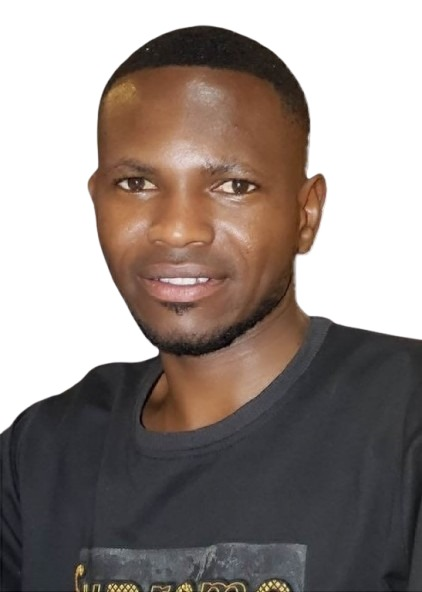
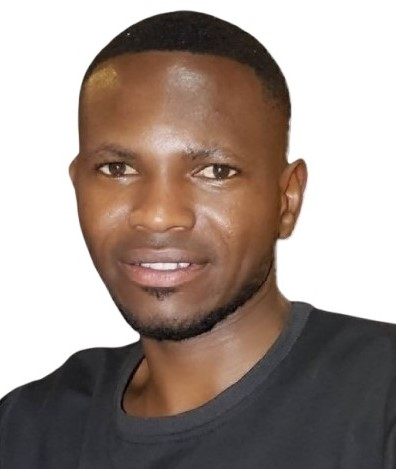
update on tem

diff --git a/src/User/Home2.jsx b/src/User/Home2.jsx
@@ -8,7 +8,18 @@ const Home2 = () => {
     "/im3.jpg",
     "/im4.jpg",
     "/im0.jpg",
-    "/img6.jpg"
+    "/img6.jpg",
+    "/phogr1.jpg",
+    "/phogr2.jpg",
+    "/phogr3.jpg",
+    "/visaul1.jpg",
+    "/craft1.jpg",
+    "/craft2.jpg",
+    "/craft3.jpg",
+    "/craft4.jpg",
+    "/craft5.jpg",
+    "/cloth1.jpg",
+    "/cloth2.jpg",
   ];
 
   const [currentImageIndex, setCurrentImageIndex] = useState(0);
@@ -223,6 +234,127 @@ const Home2 = () => {
             <a href="#" className="group relative block overflow-hidden">
               <img
                 src="/img6.jpg"
+                alt="Product"
+                className="h-64 w-full object-cover transition duration-500 group-hover:scale-105 sm:h-72"
+              />
+              <div className="relative border border-gray-100 bg-white p-6">
+                <h3 className="mt-1.5 text-lg font-medium text-gray-900">Artist Name: Eric Manzi</h3>
+                <p className="text-sm text-gray-500">Art Description: A modern abstract piece with geometric shapes and vibrant colors.</p>
+                <Link to="artist" className="text-sm text-orange-500 mt-2 inline-block">
+                  View More
+                </Link>
+              </div>
+            </a>
+
+            <a href="#" className="group relative block overflow-hidden">
+              <img
+                src="/phogr1.jpg"
+                alt="Product"
+                className="h-64 w-full object-cover transition duration-500 group-hover:scale-105 sm:h-72"
+              />
+              <div className="relative border border-gray-100 bg-white p-6">
+                <h3 className="mt-1.5 text-lg font-medium text-gray-900">Artist Name: Eric Manzi</h3>
+                <p className="text-sm text-gray-500">Art Description: A modern abstract piece with geometric shapes and vibrant colors.</p>
+                <Link to="artist" className="text-sm text-orange-500 mt-2 inline-block">
+                  View More
+                </Link>
+              </div>
+            </a>
+
+
+            <a href="#" className="group relative block overflow-hidden">
+              <img
+                src="/phogr2.jpg"
+                alt="Product"
+                className="h-64 w-full object-cover transition duration-500 group-hover:scale-105 sm:h-72"
+              />
+              <div className="relative border border-gray-100 bg-white p-6">
+                <h3 className="mt-1.5 text-lg font-medium text-gray-900">Artist Name: Eric Manzi</h3>
+                <p className="text-sm text-gray-500">Art Description: A modern abstract piece with geometric shapes and vibrant colors.</p>
+                <Link to="artist" className="text-sm text-orange-500 mt-2 inline-block">
+                  View More
+                </Link>
+              </div>
+            </a>
+
+            <a href="#" className="group relative block overflow-hidden">
+              <img
+                src="/phogr3.jpg"
+                alt="Product"
+                className="h-64 w-full object-cover transition duration-500 group-hover:scale-105 sm:h-72"
+              />
+              <div className="relative border border-gray-100 bg-white p-6">
+                <h3 className="mt-1.5 text-lg font-medium text-gray-900">Artist Name: Eric Manzi</h3>
+                <p className="text-sm text-gray-500">Art Description: A modern abstract piece with geometric shapes and vibrant colors.</p>
+                <Link to="artist" className="text-sm text-orange-500 mt-2 inline-block">
+                  View More
+                </Link>
+              </div>
+            </a>
+
+            <a href="#" className="group relative block overflow-hidden">
+              <img
+                src="/craft1.jpg"
+                alt="Product"
+                className="h-64 w-full object-cover transition duration-500 group-hover:scale-105 sm:h-72"
+              />
+              <div className="relative border border-gray-100 bg-white p-6">
+                <h3 className="mt-1.5 text-lg font-medium text-gray-900">Artist Name: Eric Manzi</h3>
+                <p className="text-sm text-gray-500">Art Description: A modern abstract piece with geometric shapes and vibrant colors.</p>
+                <Link to="artist" className="text-sm text-orange-500 mt-2 inline-block">
+                  View More
+                </Link>
+              </div>
+            </a>
+
+            <a href="#" className="group relative block overflow-hidden">
+              <img
+                src="/craft2.jpg"
+                alt="Product"
+                className="h-64 w-full object-cover transition duration-500 group-hover:scale-105 sm:h-72"
+              />
+              <div className="relative border border-gray-100 bg-white p-6">
+                <h3 className="mt-1.5 text-lg font-medium text-gray-900">Artist Name: Eric Manzi</h3>
+                <p className="text-sm text-gray-500">Art Description: A modern abstract piece with geometric shapes and vibrant colors.</p>
+                <Link to="artist" className="text-sm text-orange-500 mt-2 inline-block">
+                  View More
+                </Link>
+              </div>
+            </a>
+
+            <a href="#" className="group relative block overflow-hidden">
+              <img
+                src="/craft3.jpg"
+                alt="Product"
+                className="h-64 w-full object-cover transition duration-500 group-hover:scale-105 sm:h-72"
+              />
+              <div className="relative border border-gray-100 bg-white p-6">
+                <h3 className="mt-1.5 text-lg font-medium text-gray-900">Artist Name: Eric Manzi</h3>
+                <p className="text-sm text-gray-500">Art Description: A modern abstract piece with geometric shapes and vibrant colors.</p>
+                <Link to="artist" className="text-sm text-orange-500 mt-2 inline-block">
+                  View More
+                </Link>
+              </div>
+            </a>
+
+            <a href="#" className="group relative block overflow-hidden">
+              <img
+                src="/craft4.jpg"
+                alt="Product"
+                className="h-64 w-full object-cover transition duration-500 group-hover:scale-105 sm:h-72"
+              />
+              <div className="relative border border-gray-100 bg-white p-6">
+                <h3 className="mt-1.5 text-lg font-medium text-gray-900">Artist Name: Eric Manzi</h3>
+                <p className="text-sm text-gray-500">Art Description: A modern abstract piece with geometric shapes and vibrant colors.</p>
+                <Link to="artist" className="text-sm text-orange-500 mt-2 inline-block">
+                  View More
+                </Link>
+              </div>
+            </a>
+
+            <a href="#" className="group relative block overflow-hidden">
+              <img
+                src="/craft5.jpg"
                 alt="Product"
                 className="h-64 w-full object-cover transition duration-500 group-hover:scale-105 sm:h-72"
               />

diff --git a/src/User/Profile.jsx b/src/User/Profile.jsx
@@ -4,6 +4,19 @@ import PostShop from "./PostShop"; // Import the PostShop component
 
 const Profile = () => {
   const [isPostArtModalOpen, setIsPostArtModalOpen] = useState(false);
+  const [artists, setArtists] = useState([
+    {
+      name: "Uwineza Florence",
+      joined: "Oct 16, 2024",
+      location: "Rwanda, Kigali",
+    },
+  ]);
+
+  const [newArtist, setNewArtist] = useState({
+    name: "",
+    joined: "",
+    location: "",
+  });
 
   const openPostArtModal = () => {
     setIsPostArtModalOpen(true);
@@ -11,6 +24,18 @@ const Profile = () => {
 
   const closePostArtModal = () => {
     setIsPostArtModalOpen(false);
+  };
+
+  const handleAddArtist = () => {
+    if (newArtist.name && newArtist.joined && newArtist.location) {
+      setArtists([...artists, newArtist]);
+      setNewArtist({ name: "", joined: "", location: "" });
+    }
+  };
+
+  const handleInputChange = (e) => {
+    const { name, value } = e.target;
+    setNewArtist({ ...newArtist, [name]: value });
   };
 
   return (
@@ -64,25 +89,67 @@ const Profile = () => {
           <h3 className="text-2xl font-semibold mb-4">Profiles</h3>
           <div className="border-t-2 border-orange-500 w-12 mb-4"></div>
 
-          {/* Profile Entry */}
-          <div className="flex items-center justify-between bg-gray-50 rounded-lg p-4 shadow">
-            <div className="flex items-center space-x-4">
-              <div className="bg-orange-600 text-white rounded-full w-12 h-12 flex items-center justify-center text-lg font-bold">
-                U
+          {/* Profile Entries */}
+          {artists.map((artist, index) => (
+            <div
+              key={index}
+              className="flex items-center justify-between bg-gray-50 rounded-lg p-4 shadow mb-4"
+            >
+              <div className="flex items-center space-x-4">
+                <div className="bg-orange-600 text-white rounded-full w-12 h-12 flex items-center justify-center text-lg font-bold">
+                  {artist.name.charAt(0).toUpperCase()}
+                </div>
+                <div>
+                  <h4 className="text-lg font-semibold">{artist.name}</h4>
+                  <p className="text-sm text-gray-600">
+                    Member Since: {artist.joined}
+                  </p>
+                </div>
               </div>
-              <div>
-                <h4 className="text-lg font-semibold">Uwineza Florence</h4>
-                <p className="text-sm text-gray-600">
-                  Member Since: Oct 16, 2024
-                </p>
-              </div>
+              {/* Logout Button */}
+              <Link to="/">
+                <button className="bg-red-500 text-white rounded-lg px-6 py-2 font-medium hover:bg-red-600">
+                  LOGOUT
+                </button>
+              </Link>
             </div>
-            {/* Logout Button */}
-            <Link to="/">
-              <button className="bg-red-500 text-white rounded-lg px-6 py-2 font-medium hover:bg-red-600">
-                LOGOUT
-              </button>
-            </Link>
+          ))}
+
+          {/* Add New Artist */}
+          <div className="mt-6">
+            <h4 className="text-lg font-semibold mb-2">Add New Artist</h4>
+            <div className="flex flex-col md:flex-row md:space-x-4">
+              <input
+                type="text"
+                name="name"
+                value={newArtist.name}
+                onChange={handleInputChange}
+                placeholder="Artist Name"
+                className="border rounded-lg p-2 mb-2 md:mb-0 flex-1"
+              />
+              <input
+                type="text"
+                name="joined"
+                value={newArtist.joined}
+                onChange={handleInputChange}
+                placeholder="Joined Date (e.g., Dec 12, 2024)"
+                className="border rounded-lg p-2 mb-2 md:mb-0 flex-1"
+              />
+              <input
+                type="text"
+                name="location"
+                value={newArtist.location}
+                onChange={handleInputChange}
+                placeholder="Location (e.g., Rwanda, Kigali)"
+                className="border rounded-lg p-2 mb-2 md:mb-0 flex-1"
+              />
+            </div>
+            <button
+              onClick={handleAddArtist}
+              className="bg-orange-600 text-white rounded-lg px-6 py-2 mt-4 font-medium hover:bg-orange-700"
+            >
+              ADD ARTIST
+            </button>
           </div>
 
           {/* Buttons */}
@@ -92,12 +159,6 @@ const Profile = () => {
               onClick={openPostArtModal}
             >
               + POST THE ART
-            </button>
-            <button
-              className="text-orange-600 border border-orange-600 rounded-lg px-6 py-2 font-medium hover:bg-orange-100"
-              onClick={openPostArtModal}
-            >
-              POST THE ART
             </button>
           </div>
         </div>

diff --git a/src/Components/Team.jsx b/src/Components/Team.jsx
@@ -27,15 +27,15 @@ return(
         </p>
       </blockquote>
       <blockquote className="rounded-lg bg-orange-50 p-6 shadow-sm sm:p-8">
-        <div className="flex items-center gap-4">
+      <div className="flex items-center gap-4">
           <img
             alt=""
-            src="/ephron.jpg"
-            className="size-24  rounded-full object-cover"
+            src="/esron1.png"
+            className="size-24 rounded-full object-cover"
           />
 
           <div>
-            <p className="mt-0.5 text-lg font-medium  text-[#191047]">Tuyishime Ephron</p>
+            <p className="mt-0.5 text-lg font-medium  text-[#191047]">Ephron Tuyishime</p>
           </div>
         </div>
 
